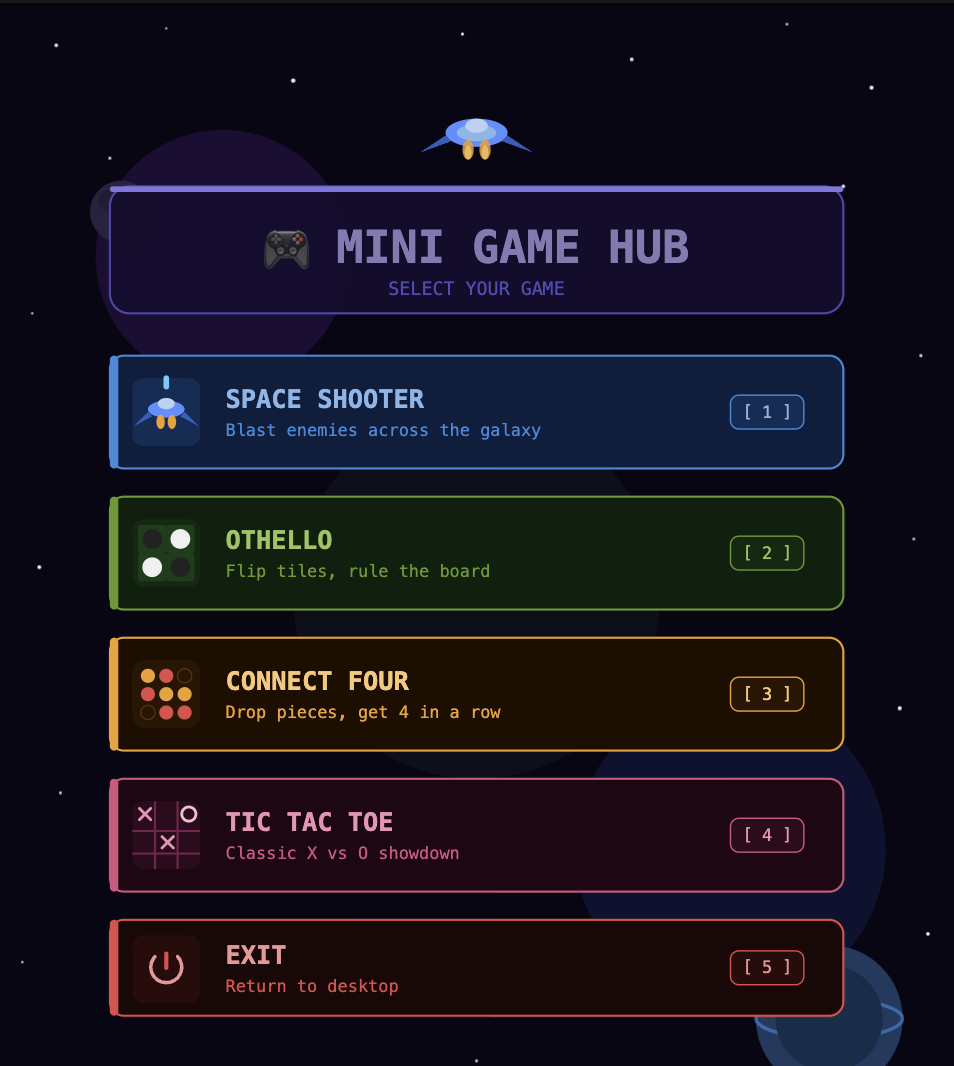
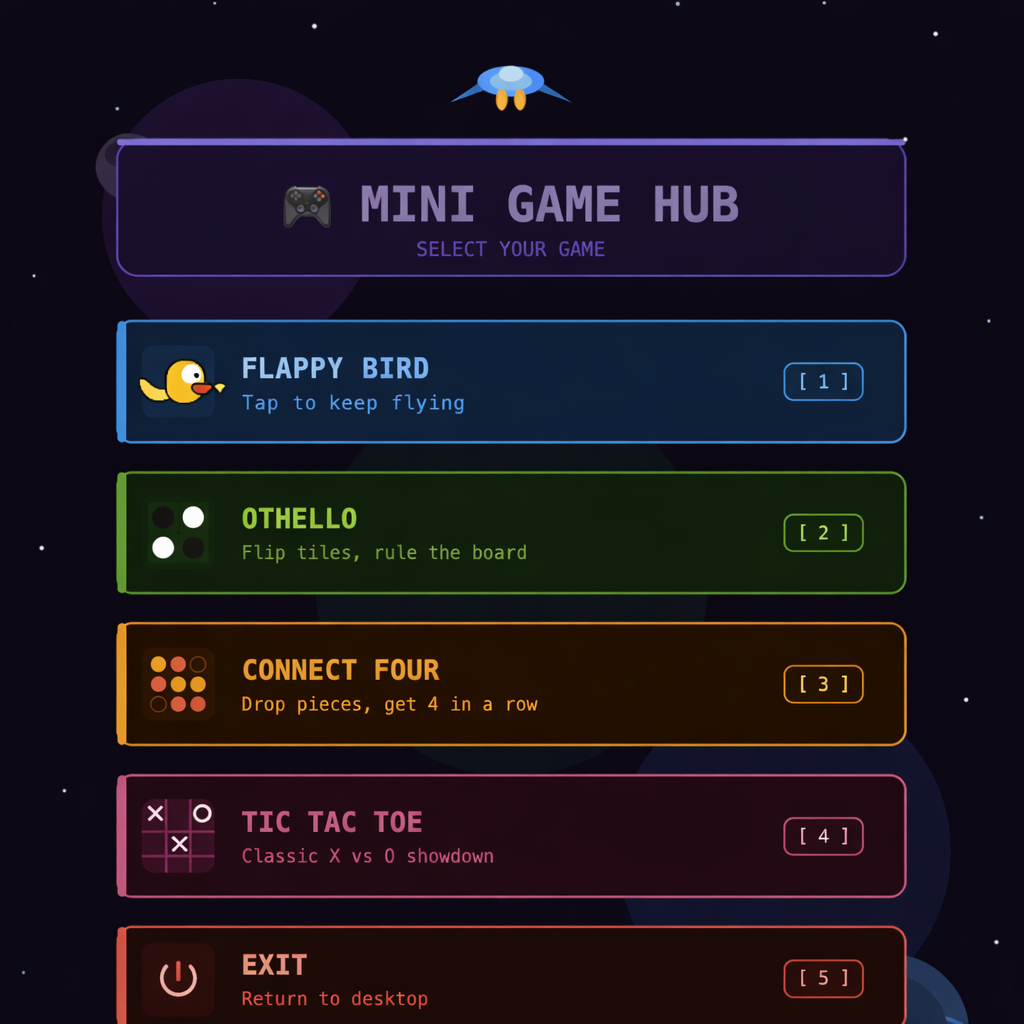
Changed the game to Flappy bird

Changed region(s): [[0.0912, 0.0625, 0.9727, 1.0]]

diff --git a/game.py b/game.py
@@ -4,6 +4,7 @@ import sys # we took input from it and even exited the program + other things al
 import os # folder paths and stuff can be accessed with this 
 import subprocess #helps run commands in temrinal 
 import numpy as np 
+#import tictactoe from games.tictactoe 
  
 WIDTH = 800
 HEIGHT = 850
@@ -43,15 +44,15 @@ else:
 
 # Time to make the buttons glow 
 buttons = {
-    "shooter": pygame.Rect(83, 280, 628, 97),
-    "othello": pygame.Rect(85, 392, 629, 99),
-    "connect4": pygame.Rect(88, 502, 626, 101),
-    "tictactoe": pygame.Rect(85, 615, 630, 99),
-    "exit": pygame.Rect(83, 730, 632, 87),
+    "flappy_bird": pygame.Rect(83, 260, 634, 117),
+    "othello": pygame.Rect(85, 386, 634,117),
+    "connect4": pygame.Rect(84, 512, 634, 117),
+    "tictactoe": pygame.Rect(85, 632, 634, 118),
+    "exit": pygame.Rect(83, 765, 634, 117),
 }
 # defined the buttons 
 glow_colors = {
-    "shooter": (0, 0, 255),
+    "flappy_bird": (0, 0, 255),
     "othello": (0, 255, 0),
     "connect4": (255, 255, 0),
     "tictactoe": (255, 100, 0),
@@ -75,6 +76,7 @@ def draw_glow(screen, rect, color):# we take input as the screen and the rect an
         )
 
     screen.blit(glow_surface, rect.topleft) # Inbuilt fucntion used to draw things on another like here the first argument's top left corner will match to the second arg which is a pair of cord which i true as i gave the top left of the rect as input thius it gets drn on the rectangle perfectly 
+# Obv we saw yt tutorial for this glowing thing :)
 
 # this will allow us to execute different games
 def run_file(filename):
@@ -109,7 +111,8 @@ def main():
                 elif buttons["tictactoe"].collidepoint(pos):
                     pygame.mixer.music.stop()
                     pygame.display.quit()
-                    run_file("ticktacktoe.py")
+                    #run_file("tictactoe.py")
+                
 
                 elif buttons["connect4"].collidepoint(pos):
                     pygame.mixer.music.stop()
@@ -121,18 +124,19 @@ def main():
                     pygame.display.quit()
                     run_file("othello.py")
 
-                elif buttons["shooter"].collidepoint(pos):
+                elif buttons["flappy_bird"].collidepoint(pos):
                     pygame.mixer.music.stop()
                     pygame.display.quit()
-                    run_file("shooter.py")
+                    run_file("flappy_bird.py")
 
         # Detect hover ad respond acc 
         for name, rect in buttons.items():
             if rect.collidepoint(mouse_pos):# We try to find the event of mouse pointing 
                 hovered = name
                 break
-
+                
         # Draw background 
+
         screen.blit(background, (0, 0))
 
         # Draw glow on hover 
@@ -149,17 +153,17 @@ def main():
         pygame.display.update()# updated the screen after whtaever chages happened 
         clock.tick(60) # set to 60 frames per second 
 class Game:
-    def __init__(gm,current_player,player1,player2,row,col):
-        gm.player1=player1
-        gm.player2=player2
-        gm.board=np.zeros((row,col))
-        gm.current_player=player1
-    def switch(gm) :
-        if gm.current_player==gm.player1:
-            gm.current_player=gm.player2
+    def __init__(self,current_player,player1,player2,row,col):
+        self.player1=player1
+        self.player2=player2
+        self.board=np.zeros((row,col))
+        self.current_player=player1
+    def switch(self) :
+        if self.current_player==self.player1:
+            self.current_player=self.player2
         else:
-            gm.current_player=gm.player1
-    def check_win(gm):
+            self.current_player=self.player1
+    def check_win(self):
         raise NotImplementedError("Subclasses must implement this method") # each game has their own winning condition 
 
 if __name__ == "__main__":# Only use when used directly not as a support file 
